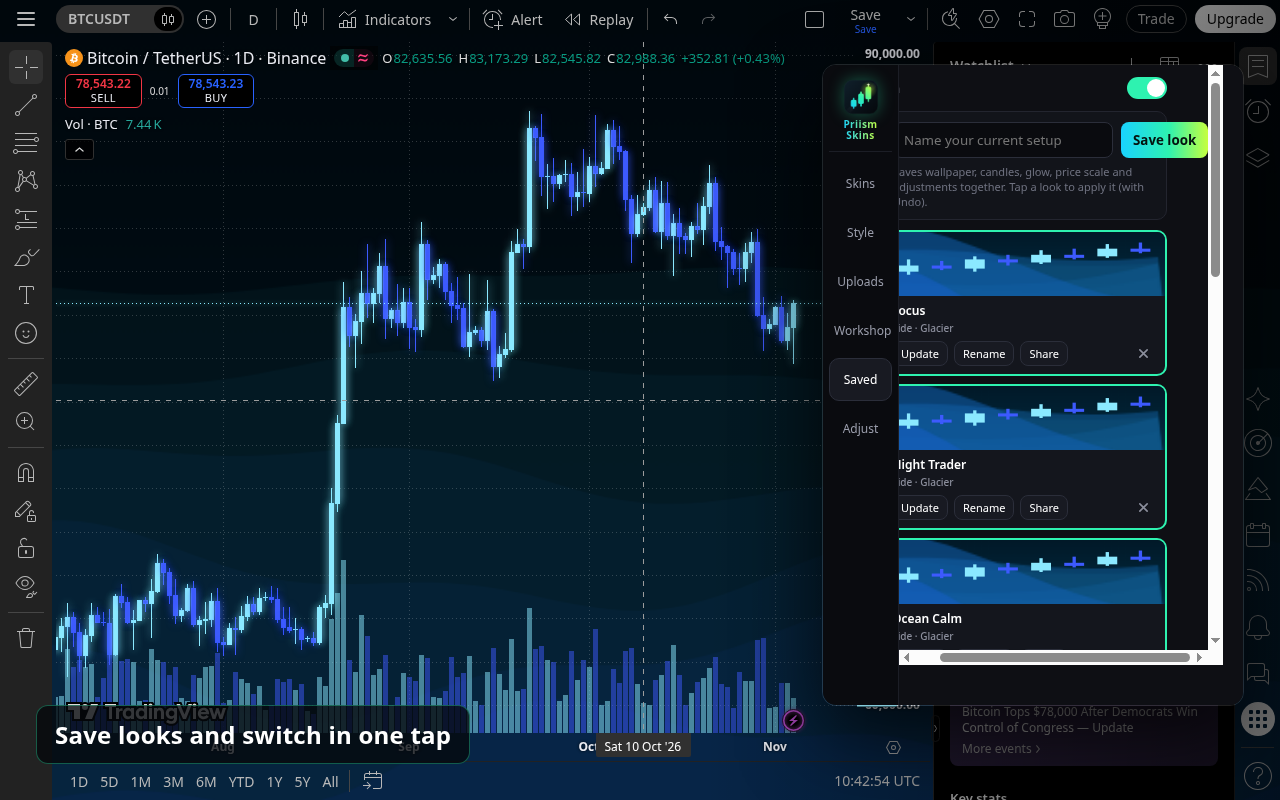
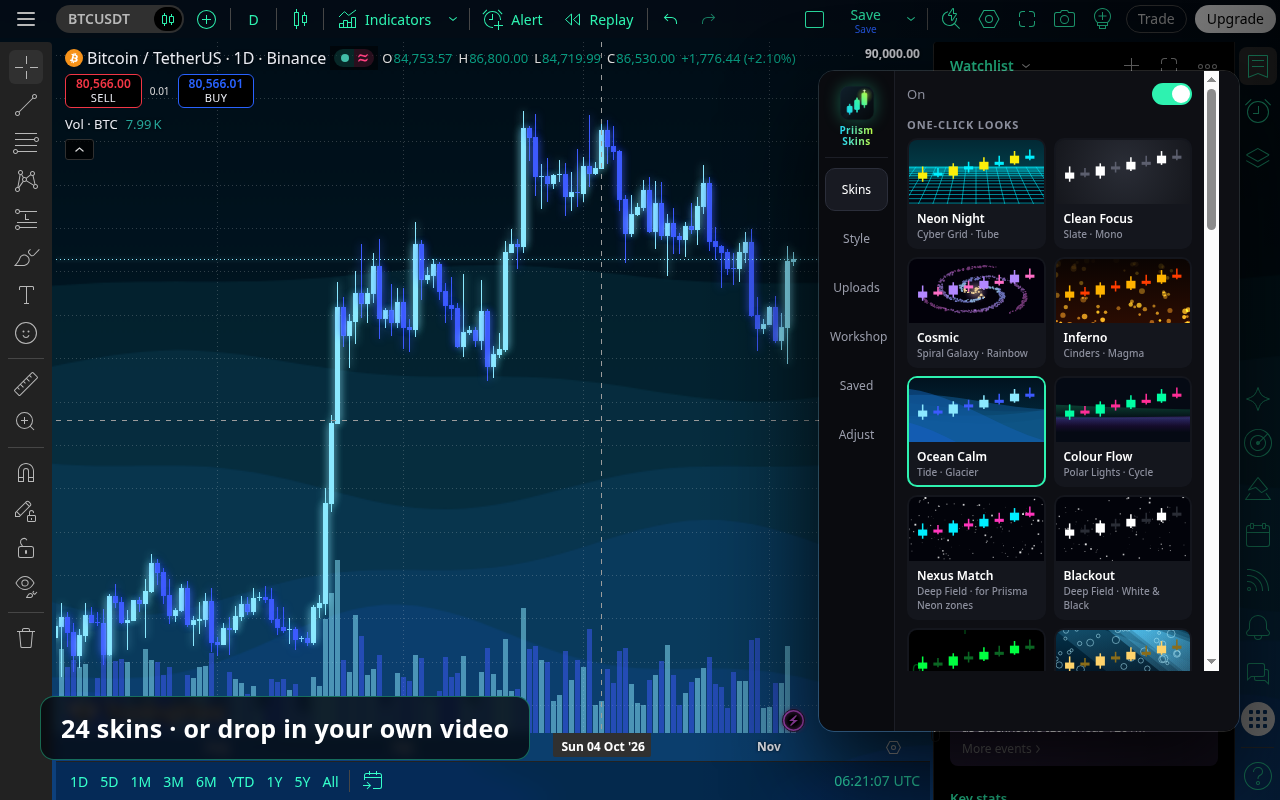
Launch polish: Guide/how-to-install page; refreshed store screenshots + promo tiles

diff --git a/site/guide.html b/site/guide.html
@@ -1,0 +1,98 @@
+<!doctype html>
+<html lang="en">
+<head>
+  <meta charset="utf-8"><meta name="viewport" content="width=device-width, initial-scale=1">
+  <title>Guide · Priism Skins</title>
+  <meta name="description" content="How to install and use Priism Skins on Chrome, the desktop app, Android and prop platforms like TopstepX.">
+  <link rel="icon" href="img/icon-32.png"><link rel="stylesheet" href="style.css">
+</head>
+<body>
+  <main class="wrap guide">
+    <h1 style="margin:0 0 6px">Getting started</h1>
+    <p style="color:var(--muted);margin:0 0 10px">Install it, open a TradingView chart, pick a look. It's purely visual — it never reads your orders, positions or account.</p>
+
+    <!-- platform picker -->
+    <div class="gtabs" id="gtabs">
+      <button class="chip on" data-g="chrome">Chrome / Edge / Brave</button>
+      <button class="chip" data-g="desktop">Desktop app</button>
+      <button class="chip" data-g="android">Android</button>
+      <button class="chip" data-g="platforms">Prop platforms</button>
+    </div>
+
+    <!-- CHROME -->
+    <section class="gpanel" data-g="chrome">
+      <ol class="steps">
+        <li><b>Install.</b> Click <a data-chrome href="#">Add to Chrome</a> (works in Edge, Brave, Opera and Arc too) and confirm <b>Add extension</b>.</li>
+        <li><b>Pin it (optional).</b> Click the puzzle-piece icon in the toolbar, then the pin next to Priism Skins, so its icon is always there.</li>
+        <li><b>Open a chart.</b> Go to <b>tradingview.com</b> and open any chart.</li>
+        <li><b>Pick a look.</b> Click the Priism Skins icon → the panel opens → tap a <b>One-click look</b> (Neon Night, Blackout, Cosmic…). Your wallpaper and candle colours apply instantly.</li>
+        <li><b>Tweak it.</b> Use the tabs — <b>Skins</b>, <b>Style</b> (candles, glow, price scale), <b>Uploads</b> (your own images/videos), <b>Adjust</b> (darken, blur, Sides, Interface).</li>
+      </ol>
+      <p class="tip">Tip: <b>Alt+Shift+W</b> on the chart turns everything on or off instantly.</p>
+    </section>
+
+    <!-- DESKTOP -->
+    <section class="gpanel" data-g="desktop" hidden>
+      <ol class="steps">
+        <li><b>Download</b> the app for your system from the <a href="index.html#download">Download</a> section — Windows (.exe), macOS or Linux (.AppImage).</li>
+        <li><b>Install &amp; open it.</b> On first launch it opens to the <b>Skins &amp; settings</b> window.</li>
+        <li><b>Open your chart.</b> Click <b>Open TradingView with skins</b>. TradingView opens in its own window with your skin already applied.</li>
+        <li><b>Choose a look</b> in the settings window; it updates the chart live. Your settings are saved on your computer.</li>
+        <li><b>Updates</b> install themselves — you'll be asked to restart when a new version is ready.</li>
+      </ol>
+      <p class="tip">Windows may show a “Windows protected your PC” box on first run — click <b>More info → Run anyway</b>. On macOS, if it says it can't verify the app, open <b>System Settings → Privacy &amp; Security</b> and click <b>Open Anyway</b>.</p>
+    </section>
+
+    <!-- ANDROID -->
+    <section class="gpanel" data-g="android" hidden>
+      <p class="badge">Beta</p>
+      <ol class="steps">
+        <li><b>Download the APK</b> from the <a href="index.html#download">Download</a> section (the Android card).</li>
+        <li><b>Allow the install.</b> Android will ask to allow installing from your browser/files — approve it, then tap the APK to install.</li>
+        <li><b>Open the app.</b> It loads TradingView with Priism Skins built in.</li>
+        <li><b>Tap the settings button</b> (bottom-right) to pick skins and candle colours.</li>
+      </ol>
+      <p class="tip">TradingView's own app can't run add-ons, which is why this is a separate app. A Play Store version is coming.</p>
+    </section>
+
+    <!-- PROP PLATFORMS -->
+    <section class="gpanel" data-g="platforms" hidden>
+      <ol class="steps">
+        <li><b>Open your platform's chart</b> (e.g. TopstepX, or any site that uses TradingView charts) in Chrome.</li>
+        <li><b>Click the Priism Skins icon.</b> If it finds a chart, you'll see <b>“Chart found on …” → Turn on here</b>.</li>
+        <li><b>Approve once.</b> Chrome asks to allow the extension on that site — that's its standard wording for drawing on a page. The page reloads skinned.</li>
+        <li><b>Turn off</b> in the same place whenever you want; it removes the skin and the permission.</li>
+      </ol>
+      <p class="tip">Some prop firms have rules about browser extensions on funded or evaluation accounts — check yours first. Priism Skins only changes how the chart looks and never touches your orders.</p>
+    </section>
+
+    <h2 style="margin-top:40px">Sharing a wallpaper (Workshop)</h2>
+    <ol class="steps">
+      <li><b>Browse &amp; use</b> community wallpapers in the extension's <b>Workshop</b> tab — no account needed. Tap <b>Use</b> and it's on your chart.</li>
+      <li><b>Share your own</b> on the <a href="workshop.html">Workshop page</a>: sign in, drag in an image or video, add a title, and submit. Uploads are reviewed before they appear.</li>
+    </ol>
+
+    <h2 style="margin-top:40px">Quick fixes</h2>
+    <div class="qfix">
+      <details><summary>I don't see any change on my chart</summary><p>Make sure the panel's top switch is <b>On</b>, and that you're on an actual chart page (tradingview.com/chart). Try <b>Alt+Shift+W</b>.</p></details>
+      <details><summary>The candles are hard to see on a busy wallpaper</summary><p>In <b>Adjust → Picture</b>, raise <b>Darken</b>, or lower the wallpaper's <b>Opacity</b>. Or turn on <b>Match wallpaper</b> (Style → Candles) so the candles take colours that stand out.</p></details>
+      <details><summary>The price scale text is hard to read</summary><p>It auto-adjusts, but you can set it manually in <b>Style → Price scale</b> (text colour, glass backing, size).</p></details>
+      <details><summary>Two copies installed</summary><p>If you loaded it unpacked and also installed from the store, remove one at <b>chrome://extensions</b> so they don't both draw.</p></details>
+      <details><summary>Does it slow things down?</summary><p>It pauses in background tabs and has an <b>Eco</b> mode and <b>Auto quality</b> that lower detail if your computer struggles. Set it in <b>Adjust → Picture</b>.</p></details>
+    </div>
+
+    <p style="color:var(--muted);margin-top:36px">Still stuck? Email <span data-contact></span>.</p>
+  </main>
+
+  <script src="site-config.js"></script><script src="common.js"></script>
+  <script>
+  (function () {
+    const tabs = document.getElementById("gtabs");
+    tabs.addEventListener("click", (e) => { const b = e.target.closest("[data-g]"); if (!b) return;
+      [...tabs.children].forEach((c) => c.classList.toggle("on", c === b));
+      document.querySelectorAll(".gpanel").forEach((p) => (p.hidden = p.dataset.g !== b.dataset.g));
+    });
+  })();
+  </script>
+</body>
+</html>

diff --git a/site/style.css b/site/style.css
@@ -127,3 +127,17 @@ footer { background: linear-gradient(180deg, transparent, rgba(46,242,176,.04));
   section.block { padding: 52px 0; }
   .demo-chip { padding: 7px 13px; font-size: 13px; }
 }
+
+/* Guide page */
+.guide { max-width: 820px; padding: 48px 20px 70px; }
+.guide h1 { font-size: clamp(30px,4vw,40px); letter-spacing: -.01em; }
+.guide h2 { font-size: 22px; }
+.gtabs { display: flex; flex-wrap: wrap; gap: 8px; margin: 22px 0 26px; }
+.gpanel { background: var(--panel); border: 1px solid var(--line); border-radius: 16px; padding: 22px 24px; }
+.steps { margin: 0; padding-left: 22px; } .steps li { margin: 0 0 14px; line-height: 1.6; }
+.steps b { color: var(--text); }
+.tip { margin: 18px 0 0; padding: 12px 14px; border-radius: 10px; background: rgba(46,242,176,.08); border: 1px solid rgba(46,242,176,.25); color: #cfe9df; font-size: 14px; }
+.badge { display: inline-block; margin: 0 0 12px; padding: 3px 10px; border-radius: 99px; font-size: 12px; font-weight: 700; background: rgba(25,211,255,.15); color: #7fdcff; }
+.qfix details { background: var(--panel); border: 1px solid var(--line); border-radius: 12px; padding: 13px 16px; margin-bottom: 10px; }
+.qfix summary { cursor: pointer; font-weight: 700; } .qfix p { color: var(--muted); margin: 10px 0 0; }
+.qfix details[open] { border-color: #2c3647; }

diff --git a/site/common.js b/site/common.js
@@ -4,7 +4,7 @@
   const link = (href, label) => `<a href="${href}"${here === href ? ' class="on"' : ""}>${label}</a>`;
   document.body.insertAdjacentHTML("afterbegin", `<header class="top"><div class="wrap">
     <a class="brand" href="index.html"><img src="img/icon-128.png" alt=""><span>${S.name}</span></a>
-    <nav class="links">${link("index.html#features", "Features")}${link("workshop.html", "Workshop")}${link("index.html#download", "Download")}${link("index.html#faq", "FAQ")}</nav>
+    <nav class="links">${link("index.html#features", "Features")}${link("workshop.html", "Workshop")}${link("guide.html", "Guide")}${link("index.html#download", "Download")}${link("index.html#faq", "FAQ")}</nav>
   </div></header>`);
   document.body.insertAdjacentHTML("beforeend", `<footer><div class="wrap">
     <span>© ${new Date().getFullYear()} ${S.name}</span>${link("privacy.html", "Privacy")}${link("terms.html", "Terms")}

diff --git a/site/index.html b/site/index.html
@@ -16,6 +16,7 @@
         <a class="btn primary" data-chrome href="#">Add to Chrome</a>
         <a class="btn" href="#download">Desktop app</a>
         <a class="btn" href="workshop.html">Browse the Workshop</a>
+        <a class="btn" href="guide.html">How to install</a>
       </div>
       <div class="demo-wrap">
         <div id="demo" class="demo"><canvas></canvas></div>

diff --git a/STORE.md b/STORE.md
@@ -48,7 +48,7 @@ Not affiliated with, endorsed or sponsored by TradingView, Inc. Not financial ad
 
 **Images** (in `store/`):
 - Store icon 128×128: `icons/icon-128.png`
-- Screenshots 1280×800: `store/screenshot-1-neon-night.png`, `-2-cosmic`, `-3-inferno`, `-4-ocean`
+- Screenshots 1280×800: `store/screenshot-1-neon-night.png`, `-2-blackout`, `-3-interface`, `-4-ocean`
 - Small promo tile 440×280: `store/promo-small.png`
 - Marquee 1400×560 (optional): `store/promo-marquee.png`
 
